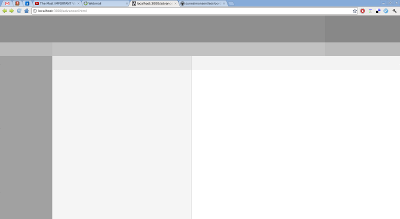
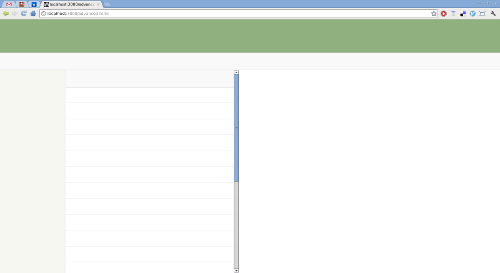
improved advanced layout

diff --git a/advanced.less b/advanced.less
@@ -1,7 +1,42 @@
 @import "border-layout.less";
 @import "split-layout.less";
-@import "color-layouts.less";
 
+@toolbar-height: 55px;
+
+@toolbar-color: #F9F9F9;
+@border-style: 1px solid #E9E9E9;
+@panel-color: #F5F7F0;
+
+.border-radius(@radius) {
+    -webkit-border-radius: @radius;
+    -moz-border-radius: @radius;
+    border-radius: @radius;
+}
+
+.toolbar {
+    background-color: @toolbar-color;
+    border-bottom: @border-style;
+    height: @toolbar-height;
+    .box-sizing(border-box);
+}
+
+.item {
+    height: 50px;
+    border-bottom: @border-style;
+}
+
+.border-layout-floating-top(@height) {
+    > .layout.top {
+        z-index: 1;
+        height: @height;
+        bottom: auto;
+        .box-shadow(0px 2px 2px 0px rgba(182, 182, 182, 0.4));
+        right: 17px;
+    }
+    > .layout.center{
+        padding-top: @height;
+    }
+}
 
 .layout.main {
     min-width: 600px;
@@ -11,12 +46,12 @@
 
     > .top {
         > .banner {
+            background-color: rgba(36, 99, 0, 0.5);
             height: 107px;
             position: relative;
             .border-layout-right(300px);
         }
         > .toolbar {
-            height: 55px;
             position: relative;
             .border-layout-left(209px);
             .border-layout-right(300px);
@@ -25,35 +60,27 @@
 
     > .center {
         .border-layout-left(209px);
+        > .left {
+            background-color: @panel-color;
+            border-right: @border-style;
+        }
         > .center {
             .split-layout(40%);
             @media (max-width: 1200px) {
                 .split-layout(400px);
             }
             @media (max-width: 1000px) {
-                .split-layout(200px, vertical);
+                .split-layout(300px, vertical);
             }
-        }
-    }
-}
-
-// Color 
-@baseColor: #555;
-
-.layout.main {
-    > .top {
-        > .banner {
-            .color-layout-parts(lighten(@baseColor, 0%), 3);
-        }
-        > .toolbar {
-            .color-layout-parts(lighten(@baseColor, 20%), 3);
-        }
-    }
-
-    > .center {
-        .color-layout-parts(lighten(@baseColor, 10%), 3);
-        > .center {
-            .color-layout-parts(lighten(@baseColor, 30%), 3);
+            .pane1 {
+                .border-layout-floating-top(@toolbar-height);
+                .center {
+                    overflow-x: auto;
+                    overflow-y: scroll;
+                }
+                border-right: @border-style;
+                border-bottom: @border-style;
+            }
         }
     }
 }

diff --git a/advanced.html b/advanced.html
@@ -9,20 +9,42 @@
     <div class="layout main">
       <div class="layout top">
         <div class="banner">
-            <div class="layout center"></div> 
-            <div class="layout right"></div> 
         </div> 
         <div class="toolbar">
-            <div class="layout left"></div> 
-            <div class="layout center"></div> 
-            <div class="layout right"></div> 
         </div> 
       </div> 
       <div class="layout center">
         <div class="layout left"></div> 
         <div class="layout center">
-          <div class="layout pane1"></div> 
-          <div class="layout pane2"></div> 
+          <div class="layout pane1">
+            <div class="layout top toolbar"></div>
+            <div class="layout center list">
+              <div class="item"></div>
+              <div class="item"></div>
+              <div class="item"></div>
+              <div class="item"></div>
+              <div class="item"></div>
+              <div class="item"></div>
+              <div class="item"></div>
+              <div class="item"></div>
+              <div class="item"></div>
+              <div class="item"></div>
+              <div class="item"></div>
+              <div class="item"></div>
+              <div class="item"></div>
+              <div class="item"></div>
+              <div class="item"></div>
+              <div class="item"></div>
+              <div class="item"></div>
+              <div class="item"></div>
+              <div class="item"></div>
+              <div class="item"></div>
+              <div class="item"></div>
+              <div class="item"></div>
+            </div>
+          </div> 
+          <div class="layout pane2">
+          </div> 
         </div> 
       </div> 
     </div>

diff --git a/layouts.less b/layouts.less
@@ -1,5 +1,14 @@
 @include "mixins.less";
 
+// Drop shadows
+.box-shadow(@shadowA, @shadowB:X, ...){
+  // Multiple shadow solution from http://toekneestuck.com/blog/2012/05/15/less-css-arguments-variable/
+  @props: ~`"@{arguments}".replace(/[\[\]]|\,\sX/g, '')`;
+  -webkit-box-shadow: @props;
+     -moz-box-shadow: @props;
+          box-shadow: @props;
+}
+
 .box-sizing(@boxmodel) {
   -webkit-box-sizing: @boxmodel;
      -moz-box-sizing: @boxmodel;
@@ -13,4 +22,5 @@
     right: 0;
     bottom: 0;
     .box-sizing(border-box);
+    overflow: hidden;
 }
